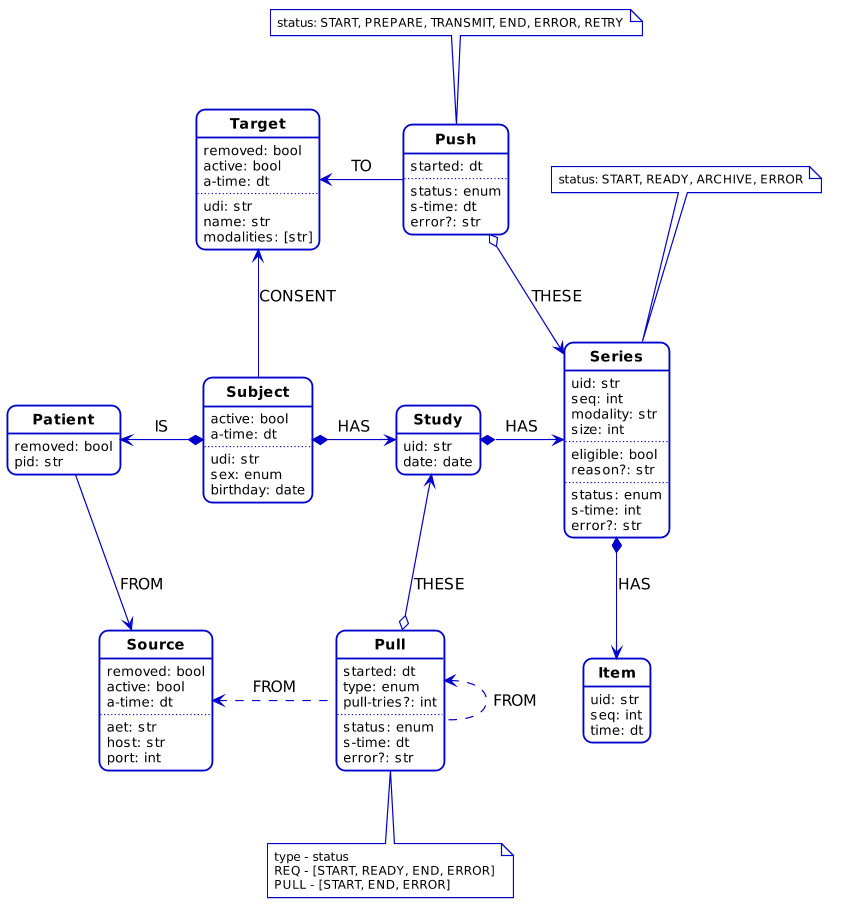
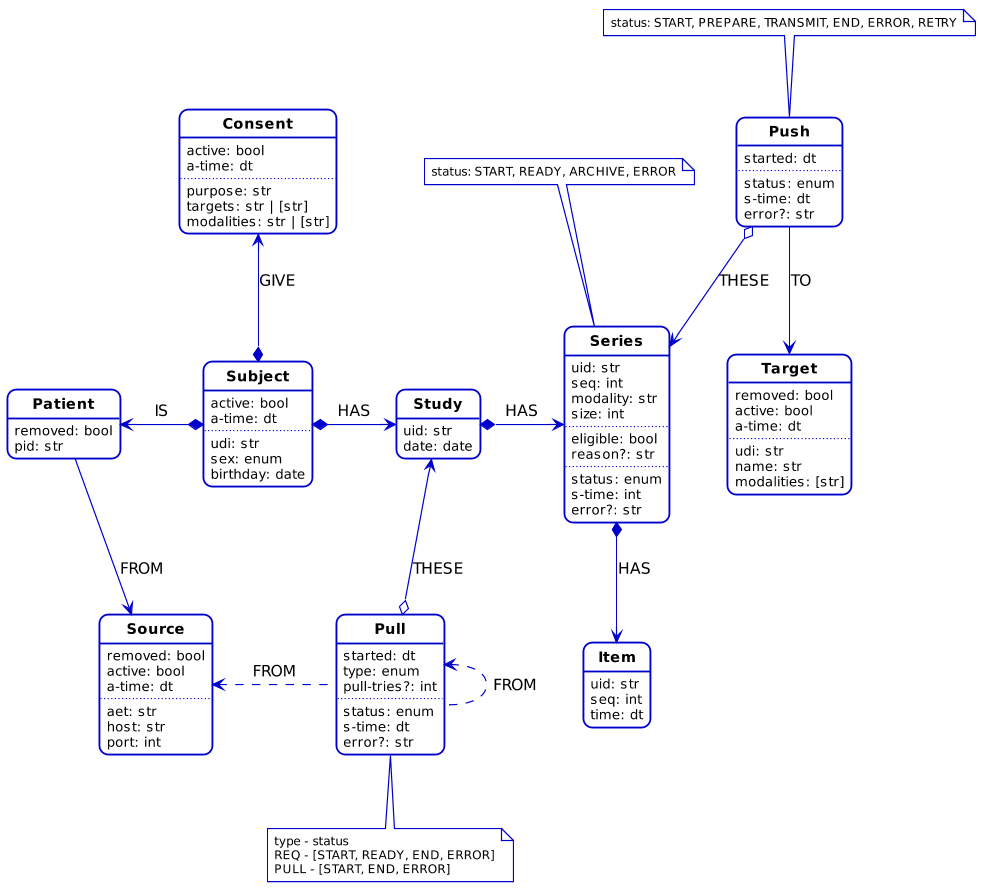
Add Consent entity and UI updates

Changed region(s): [[0.0, 0.0, 0.9835, 0.9955], [0.4917, 0.6335, 0.5532, 0.6637], [0.7376, 0.6335, 0.7683, 0.6637]]

diff --git a/ui/src/views/Subject.vue b/ui/src/views/Subject.vue
@@ -34,10 +34,23 @@
 
     <v-card class="mb-2">
       <v-card-title class="title">
+        Consents
+      </v-card-title>
+      
+      <v-data-table hide-actions :headers="cHeaders" :items="selected.consents">
+        <v-progress-linear slot="progress" indeterminate></v-progress-linear>
+        <template slot="items" slot-scope="props">
+          <td v-for="h in cHeaders" :key="h.value">{{ props.item[h.value] }}</td>
+        </template>
+      </v-data-table>
+    </v-card>
+
+    <v-card class="mb-2">
+      <v-card-title class="title">
         Associations
       </v-card-title>
       
-      <v-data-table hide-actions :headers="headers" :items="associations">
+      <v-data-table hide-actions :headers="headers" :items="selected.associations">
         <v-progress-linear slot="progress" indeterminate></v-progress-linear>
         <template slot="items" slot-scope="props">
           <td>{{ props.item.source }}</td>
@@ -83,7 +96,7 @@ import axios from 'axios';
 
 @Component
 export default class SubjectList extends Vue {
-  selected = { id: 0, udi: '', active: false, aTime: '', sex: '', birthday: '' }
+  selected = { id: 0, udi: '', active: false, aTime: '', sex: '', birthday: '', consents: [], associations: [] }
 
   inError = false
   error = ''
@@ -93,6 +106,14 @@ export default class SubjectList extends Vue {
   query = ''
   queryError = ''
   queryResults = []
+
+  cHeaders = [
+    { text: 'Purpose', sortable: false, value: 'purpose' },
+    { text: 'Targets', sortable: false, value: 'targets' },
+    { text: 'Modalities', sortable: false, value: 'modalities' },
+    { text: 'Active', sortable: false, value: 'active' },
+    { text: 'Active-Since', sortable: false, value: 'aTime' }
+  ]
 
   sHeaders = [
     { text: 'Source', sortable: false, value: 'source' },
@@ -109,24 +130,10 @@ export default class SubjectList extends Vue {
     { text: 'Remove', sortable: false, value: 'remove' }
   ]
 
-  associations: any = []
-
   beforeCreate() {
-    this.onLoading = true
     axios.get(`/api/subject/udi/${this.$route.query.udi}`)
       .then(res => {
         this.selected = res.data
-        this.onLoading = false
-      }).catch(e => {
-        this.error = e.message
-        this.inError = true
-      })
-
-    this.onLoading = true
-    axios.get(`/api/subject/associations/${this.$route.query.udi}`)
-      .then(res => {
-        this.associations = res.data
-        this.onLoading = false
       }).catch(e => {
         this.error = e.message
         this.inError = true
@@ -153,34 +160,26 @@ export default class SubjectList extends Vue {
   }
 
   associate(patient: any) {
-    this.onLoading = true
     axios.post(`/api/subject/associate`, { "udi": this.selected.udi, "source": patient.source, "pid": patient.pid })
       .then(res => {
         patient.contains = true
-        this.associations.push({ "source": patient.source, "pid": patient.pid })
-
-        this.onLoading = false
+        this.selected.associations.push({ "source": patient.source, "pid": patient.pid })
       }).catch(e => {
-        this.onLoading = false
         this.error = e.message
         this.inError = true
       })
   }
 
   deAssociate(patient: any) {
-    this.onLoading = true
     axios.delete(`/api/subject/associate/${this.selected.udi}/${patient.source}/${patient.pid}`)
       .then(res => {
         this.queryResults
           .filter(it => it.source == patient.source && it.pid == patient.pid)
           .forEach(it => it.contains = false)
 
-        let index = this.associations.indexOf(patient)
-        this.$delete(this.associations, index)
-
-        this.onLoading = false
+        let index = this.selected.associations.indexOf(patient)
+        this.$delete(this.selected.associations, index)
       }).catch(e => {
-        this.onLoading = false
         this.error = e.message
         this.inError = true
       })
@@ -201,7 +200,7 @@ export default class SubjectList extends Vue {
   }
 
   private contains(source: string, pid: string) {
-    return this.associations
+    return this.selected.associations
       .filter(it => it.source == source && it.pid == pid)
       .length !== 0
   }

diff --git a/ui/src/views/Model.vue b/ui/src/views/Model.vue
@@ -16,7 +16,7 @@
 
     <v-card class="elevation-1">
       <v-card-title class="title">
-        <span class="mr-5">Cypher Query</span>
+        <span class="mr-5">Cypher</span>
         <v-textarea auto-grow autofocus clearable clear-icon="fas fa-times" rows="1" label="Query"
           v-model="query" :error-messages="queryError" @keydown.tab="tab($event)" @keydown.shift.enter.exact.prevent @keyup.shift.enter="doQuery"></v-textarea>
         <v-tooltip bottom>

diff --git a/ui/src/views/DicomFind.vue b/ui/src/views/DicomFind.vue
@@ -6,7 +6,7 @@
 
     <v-card class="elevation-1">
       <v-card-title class="title">
-        <span class="mr-5">DICOM Find</span>
+        <span class="mr-5">DICOM</span>
         <v-textarea auto-grow autofocus clearable clear-icon="fas fa-times" rows="1" label="Find"
           v-model="query" :error-messages="queryError" @keydown.tab="tab($event)" @keydown.shift.enter.exact.prevent @keyup.shift.enter="find"></v-textarea>
         <v-tooltip bottom>
